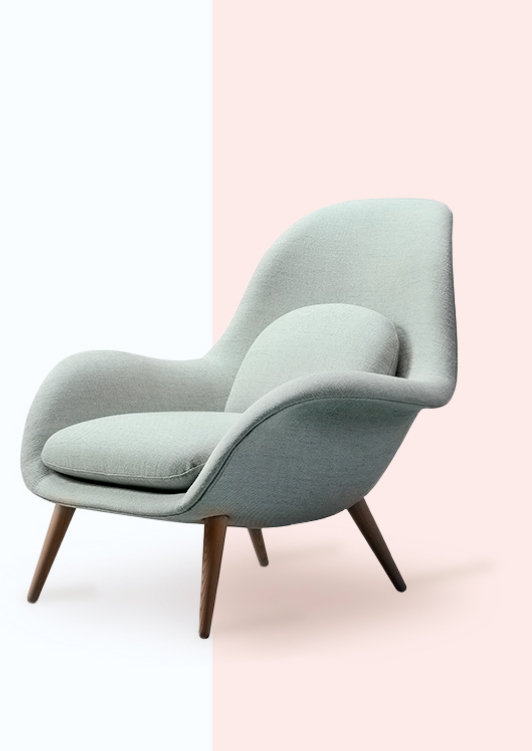
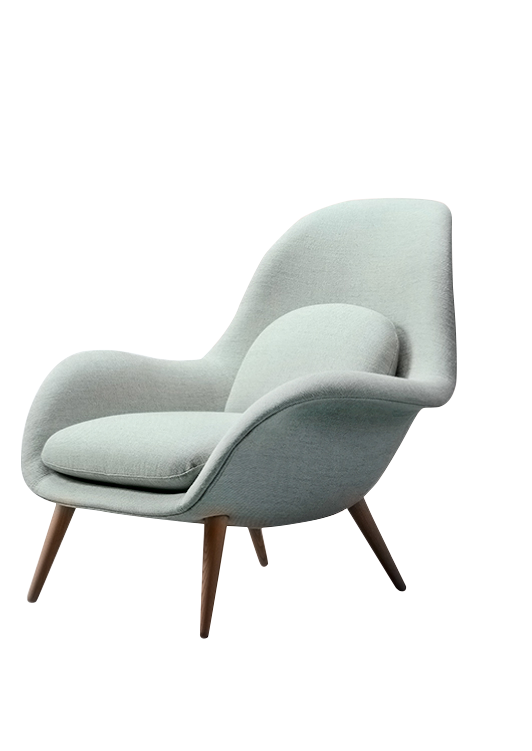
заменила изображение в слайдере на главном экране на webp

diff --git a/source/index.html b/source/index.html
@@ -62,7 +62,7 @@
             <button class="buy-button buy-button--slider">Купить</button>
           </div>
           <div class="slider__card-img-container">
-            <img src="img/main-chair.png" alt="Кресло антиква" width="532">
+            <img src="img/main-chair.webp" alt="Кресло антиква" width="532">
           </div>
         </div>
         <div class="slider__card slider__card--2 slider__card--hidden">
@@ -76,7 +76,7 @@
             <button class="buy-button buy-button--slider">Купить</button>
           </div>
           <div class="slider__card-img-container">
-            <img src="img/main-chair.png" alt="Кресло антиква" width="532">
+            <img src="img/main-chair.webp" alt="Кресло антиква" width="532">
           </div>
         </div>
         <div class="slider__card slider__card--3 slider__card--hidden">
@@ -90,7 +90,7 @@
             <button class="buy-button buy-button--slider">Купить</button>
           </div>
           <div class="slider__card-img-container">
-            <img src="img/main-chair.png" alt="Кресло антиква" width="532">
+            <img src="img/main-chair.webp" alt="Кресло антиква" width="532">
           </div>
         </div>
         <div class="slider__card slider__card--4 slider__card--hidden">
@@ -104,7 +104,7 @@
             <button class="buy-button buy-button--slider">Купить</button>
           </div>
           <div class="slider__card-img-container">
-            <img src="img/main-chair.png" alt="Кресло антиква" width="532">
+            <img src="img/main-chair.webp" alt="Кресло антиква" width="532">
           </div>
         </div>
       </div>
@@ -162,7 +162,7 @@
         <div class="new-items__card new-items__card--pink">
           <a href="#" class="new-items__card-link">
             <div class="new-items__img-wrapper">
-              <img src="img/table-crème-brûlée.png" alt="Стол Крем брюле" class="new-items__card-image" width="270"
+              <img src="img/table-creme-brulee.png" alt="Стол Крем брюле" class="new-items__card-image" width="270"
                 height="198">
             </div>
             <div class="new-items__text-container">

diff --git a/source/scss/blocks/_main-header.scss b/source/scss/blocks/_main-header.scss
@@ -2,6 +2,18 @@
   display: flex;
   justify-content: space-between;
   overflow: hidden;
+  position: relative;
+
+  &::after {
+    content: "";
+    position: absolute;
+    width: 36.4%;
+    height: 100%;
+    right: 0;
+    top: 0px;
+    background: $strawberry;
+    z-index: -1;
+  }
 
   &__container {
     display: flex;
@@ -11,15 +23,15 @@
     position: relative;
   }
 
-  &__container::after {
-    content: "";
-    position: absolute;
-    width: 100%;
-    height: 100%;
-    left: 66%;
-    top: 0px;
-    background: $strawberry;
-    z-index: -1;
+  // &__container::after {
+  //   content: "";
+  //   position: absolute;
+  //   width: 100%;
+  //   height: 100%;
+  //   left: 66%;
+  //   top: 0px;
+  //   background: $strawberry;
+  //   z-index: -1;
 
-  }
+  // }
 }
